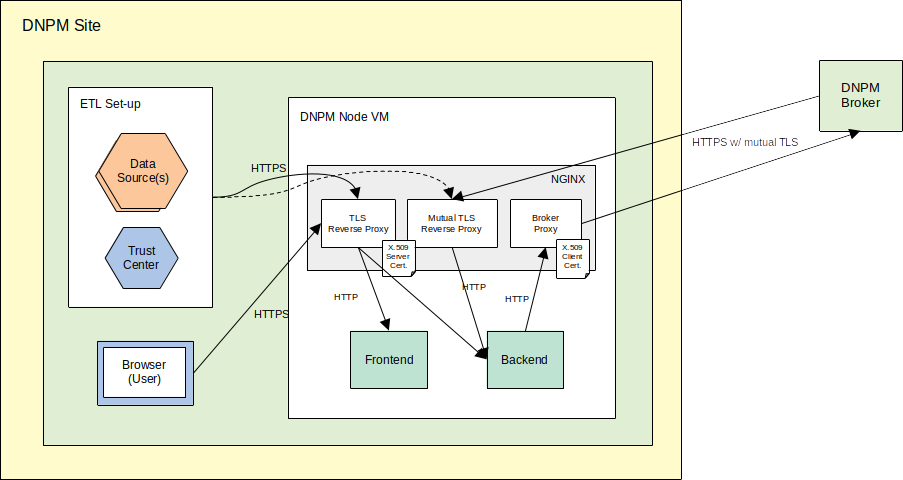
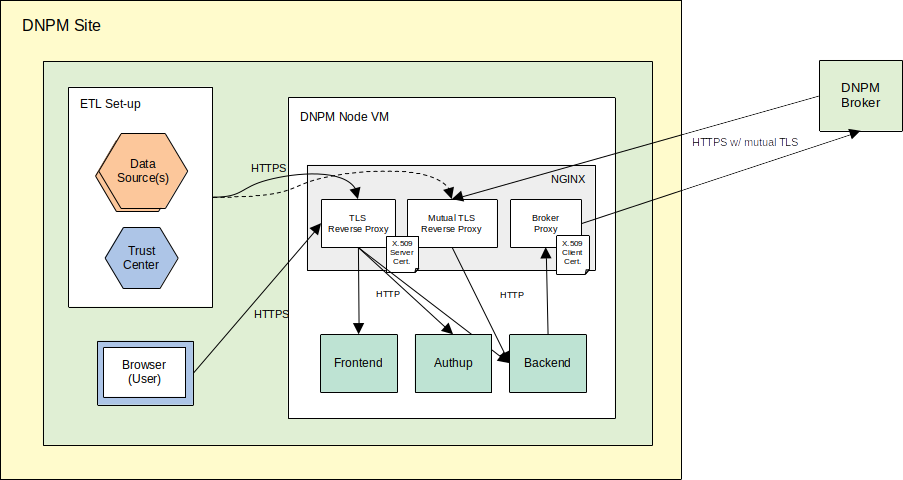
Little improvements/corrections

Changed region(s): [[0.3411, 0.625, 0.6512, 0.8438], [0.4961, 0.4688, 0.6512, 0.625], [0.3721, 0.5, 0.4651, 0.625]]

diff --git a/README.md b/README.md
@@ -34,7 +34,8 @@ The only _mandatory_ variables are
 | `BASE_URL`           | The base URL to your local DNPM:DIP node. In a production set-up, the hostname of (reverse) proxy behind which the components run (see below). In a (local) development/test set-up possibly `http://localhost` |
 | `BACKEND_LOCAL_SITE` | Your Site, in format `{Site-ID}:{Site-name}`, e.g. `UKT:Tübingen` (see [here](https://ibmi-ut.atlassian.net/wiki/spaces/DAM/pages/2613900/DNPM+DIP+-+Broker-Verbindungen) for the overview list of Site IDs and names) |
 
-These variables should be provided via a file `.env` (see also [here](https://docs.docker.com/compose/environment-variables/set-environment-variables/)). Here's a sample:
+
+**TODO for You**: Provide these variables via a file `.env` (see also [here](https://docs.docker.com/compose/environment-variables/set-environment-variables/)). Here's a sample:
 
 ```bash
 BACKEND_LOCAL_SITE=UKx:SiteName
@@ -53,11 +54,31 @@ If desired, the following variables CAN be set in the `.env` file to override th
 | `BACKEND_MTB_RANDOM_DATA` | Set to a positive integer to activate in-memory generation of MTB random data (for test purposes) |
 
 
+### Reverse/Forward Proxy
+
+As shown in the system overview diagram above, the backend and frontend components are meant to be operated behind a reverse proxy.
+This handles TLS termination (including mutual TLS for API endpoints not secured by a login mechanism) and also acts as a forward proxy
+to handle the client certificate for mutual TLS on outgoing requests (see below about the Backend Connector).
+
+The default/recommended set-up uses NGINX, for which a template configuration file [`nginx_tls.conf`](https://github.com/KohlbacherLab/dnpm-dip-deployment/blob/master/nginx_tls.conf) is available.
+
+**TODOs for You**: 
+
+* In`docker-compose.yml` service `nginx`, adapt the paths to the respective certificate and private key files.
+* In `nginx_tls.conf` Adapt the URL to the Broker in the `server` block acting as forward proxy to the Broker. 
+
+
 ### Backend
 
 The following components/functions of the backend are configured via external configuration files.
 Templates for these are available [here](https://github.com/KohlbacherLab/dnpm-dip-deployment/tree/master/backend-config).
-They must be placed in the directory bound to docker volume `/dnpm_config` in `docker-compose.yml`.
+These files are expected by the application in the directory bound to docker volume `/dnpm_config` in `docker-compose.yml`.
+
+**TODOs for You**:
+
+- In `docker-compose.yml`: Bind the directory to contain config files to `backend` service volume `/dnpm_config`
+- Place files [`production.conf`](https://github.com/KohlbacherLab/dnpm-dip-deployment/blob/master/backend-config/production.conf),[`logback.xml`](https://github.com/KohlbacherLab/dnpm-dip-deployment/blob/master/backend-config/logback.xml),[`config.xml`](https://github.com/KohlbacherLab/dnpm-dip-deployment/blob/master/backend-config/config.xml) into this config directory
+
 
 
 #### Play HTTP Server
@@ -80,7 +101,10 @@ http.parser.maxMemoryBuffer=2MB
 
 #### Persistence
 
-Data persistence by the backend uses the file system. Bind the directory meant for this purpose to the backend service's docker volume `/dnpm_data`. 
+Data persistence by the backend uses the file system. 
+
+**TODO for You**: In `docker-compose.yml`, bind the directory meant for this purpose to the `backend` service's docker volume `/dnpm_data`. 
+
 Depending on the permission set on this directory, you might have to explicitly set the system user ID for the docker process running the backend (see `services.backend.user` in `docker-compose.yml`).
 
 
@@ -89,6 +113,7 @@ Depending on the permission set on this directory, you might have to explicitly 
 Logging is based on [SLF4J](https://slf4j.org/).
 The SLF4J implementation plugged in by the Play Framework is [Logback](https://logback.qos.ch/), which is configured via file [`logback.xml`](https://github.com/KohlbacherLab/dnpm-dip-deployment/blob/master/backend-config/logback.xml).
 The default settings in the template define a daily rotating log file stored in sub-folder `/logs` of the docker volume bound for persistence (see above).
+
 You might consider removing/deactivating the logging [appender to STDOUT](https://github.com/KohlbacherLab/dnpm-dip-deployment/blob/master/backend-config/logback.xml#L30)
 
 
@@ -96,29 +121,22 @@ You might consider removing/deactivating the logging [appender to STDOUT](https:
 
 The Backend application itself is configured via [`config.xml`](https://github.com/KohlbacherLab/dnpm-dip-deployment/blob/master/backend-config/config.xml).
 The main configuration item there is the type of Connector used for communication with external DNPM:DIP node peers.
-This file's template shows example configurations for both possible connector types described below. Simply delete the one _not_ applicable to your case.
+
+This file's template shows example configurations for both possible connector types described below.
+
+**TODO for You**: Delete the one _not_ applicable to your case, and follow respective instructions below.
 
 ##### Broker Connector
 
-The connector for the hub/spoke network topology used in DNPM, via a central broker.
-The primary parameter to adapt is the base URL to your local Broker Proxy in `<Broker baseURL="..."/>`.
+The connector for the hub/spoke network topology used in DNPM, based on a central broker accessed via a local Broker Proxy (see below).
 The connector performs "peer discovery" by fetching the list of external peers from the central broker.
-If desired, you can also override the request time-out (seconds).
+If desired, you can override the request time-out (seconds).
 Also, in case you prefer the nector to periodically update its "peer list", instead of just once upon start-up, set the period (minutes).
+
 
 ##### Peer-to-peer Connector
 
 The connector based on a peer-to-peer network topology, i.e. with direct connections among DNPM:DIP nodes. Accordingly, each external peer's Site ID, Name, and BaseURL must be configured in a dedicated element, as shown in the template.
-
-
-### Reverse Proxy
-
-As shown in the system overview diagram above, the backend and frontend components are meant to be operated behind a reverse proxy.
-This handles TLS termination (including mutual TLS for API endpoints not secured by a login mechanism) and also acts as a forward proxy to handle the client certificate for mutual TLS on outgoing requests.
-
-The default/recommended set-up uses NGINX, for which a template configuration file [`nginx_tls.conf`](https://github.com/KohlbacherLab/dnpm-dip-deployment/blob/master/nginx_tls.conf) is available.
-
-You must adapt your `docker-compose.yml` with corresponding paths to the respective certificate and private key files.
 
 
 
